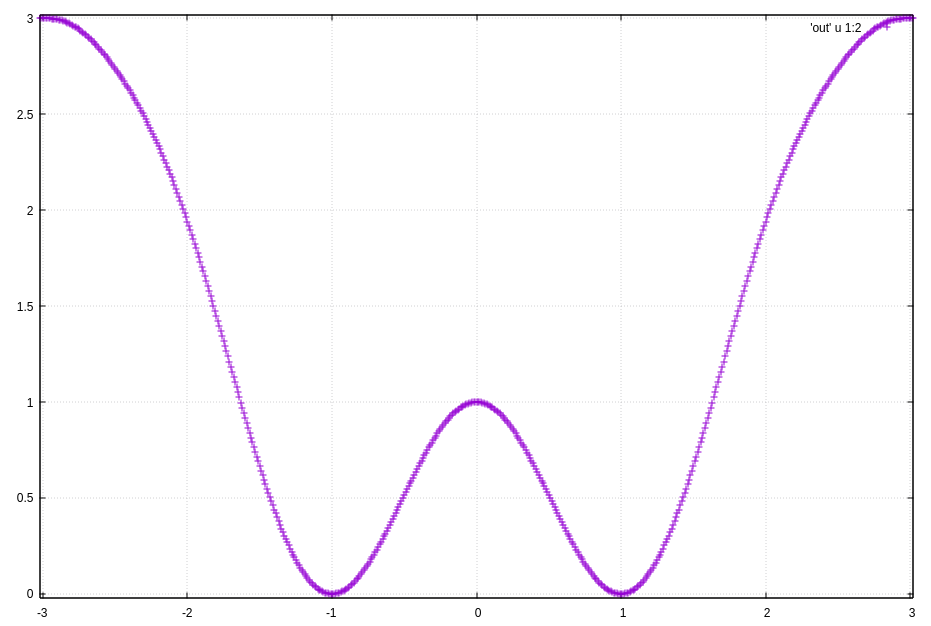
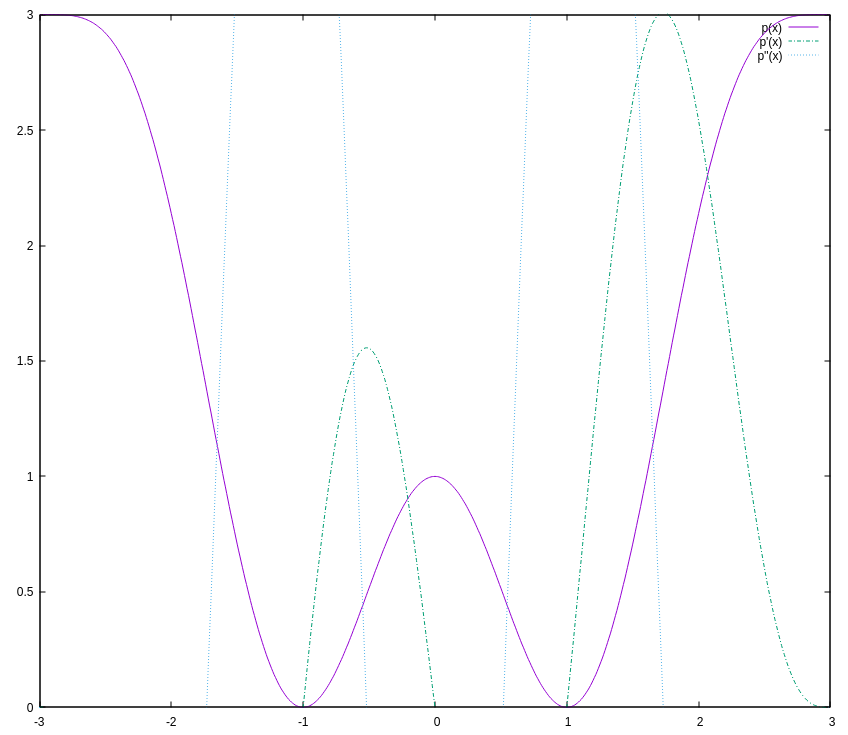
uuups there was an error in the 2nd derivative
added plot of 1st and 2nd derivatives

diff --git a/src/main.rs b/src/main.rs
@@ -18,8 +18,8 @@ fn big_poly_linear_system_rows(deriv2_x: Vec<f64> ) -> Vec< Vec<f64> > {
         two_pow3 *= 8.0;
         coeff[1].push( two_pow3);
         for j in 0..deriv2_x.len() {
-            let a = x2m1[j]*(ifloat-1.0)*deriv2_x[j];
-            x2m1[j]*=(deriv2_x[j]*deriv2_x[j]-1.0);
+            let a = x2m1[j]*(ifloat-1.0)*2.0*deriv2_x[j]*deriv2_x[j];
+            x2m1[j]*=deriv2_x[j]*deriv2_x[j]-1.0;
             let b = x2m1[j];
             coeff[3+j].push(2.0*ifloat*(a+b));
         }
@@ -28,16 +28,22 @@ fn big_poly_linear_system_rows(deriv2_x: Vec<f64> ) -> Vec< Vec<f64> > {
 
 }
 
-fn big_poly_calc(x : f64, param : &DVector<f64> ) -> f64 {
+fn big_poly_calc(x : f64, param : &DVector<f64> ) -> (f64,f64,f64) {
 
     let mut x2 = x*x-1.0;
+    let mut x2p=1.0;
     let mut y = 0.0;
-    x2*=x2;
+    let mut y1 = 0.0;
+    let mut y2 = 0.0;
     for i in 0..param.len(){
-        y+=param[i]*x2;
+        let i_s = (i+2) as f64;
+        y2+=2.0*i_s*param[i]*((i_s-1.0)*2.0*x*x*x2p+x2);
+        y1+=i_s*2.0*x*param[i]*x2;
+        x2p=x2;
         x2*=x*x-1.0;
+        y+=param[i]*x2;
     }
-    y
+    (y,y1,y2)
 }
 
 
@@ -89,7 +95,7 @@ fn main() {
     b[1]=h1;
     b[2]=0.0;
     for i in 0..nd2{
-        b[2+i]=p2y[i];
+        b[3+i]=p2y[i];
     }
 
     println!("{}",mat);
@@ -101,7 +107,7 @@ fn main() {
 
     for i in -350..351 {
         let x : f64 = i as f64 / 100.0 ;
-        let px3 = big_poly_calc(x,&xb);
-        println!("{x} {px3}");
+        let (y,y1,y2) = big_poly_calc(x,&xb);
+        println!("{x} {y} {y1} {y2}");
     }
 }

diff --git a/README.md b/README.md
@@ -18,45 +18,65 @@ p(x) = a_2 (x^2-1)^2 + a_3 (x^2-1)^3 + ...
 ```
 cargo run <<< '1
 3
-2
-2.19
-0
+5
 3
 0
+4.55
+0.0
+4.3
+0
+5.02
+9
+7.1
+90
 ' > out
 ```
 
 beginning of the output:
 
 ```
-  ┌                                                                                           ┐
-  │                 1                -1                 1                -1                 1 │
-  │                64               512              4096             32768            262144 │
-  │                16               192              2048             20480            196608 │
-  │           23.9444      186.22375926 1195.035123715048 6868.591676247881 36745.90928649707 │
-  │                44               672              8704            102400           1130496 │
-  └                                                                                           ┘
+Input height at 0 and height at 3
+Input number of second derivative points 
+Input second derivative point positions and values
+
+  ┌                                                                                                                                                         ┐
+  │                  1                 -1                  1                 -1                  1                 -1                  1                 -1 │
+  │                 64                512               4096              32768             262144            2097152           16777216          134217728 │
+  │                 16                192               2048              20480             196608            1835008           16777216          150994944 │
+  │                104               2112              31744             409600            4816896           53215232          562036736         5737807872 │
+  │ 244.42999999999995 12118.515187499996  446936.9547858748  14173991.19816581  409987664.4970896 11145105246.949165  289708521924.1584  7280443298965.557 │
+  │             217.88  9596.762999999999      314293.998744  8849753.826120896 227263418.13746658 5484623281.6499405 126566365335.34087   2823599850020.23 │
+  │  298.4047999999999 18150.590404799994  821810.3329461791 32003575.015241113 1136846989.6680145 37954550501.015434 1211723444448.7136  37400012122151.61 │
+  │             600.92  74426.28299999998  6872297.247575998  546066409.8533047  39588234404.03694  2697734075404.558 175809497538346.47  11077328274560740 │
+  └                                                                                                                                                         ┘
 
 
 
-  ┌   ┐
-  │ 1 │
-  │ 3 │
-  │ 0 │
-  │ 0 │
-  │ 0 │
-  └   ┘
+  ┌    ┐
+  │  1 │
+  │  3 │
+  │  0 │
+  │  0 │
+  │  0 │
+  │  0 │
+  │  9 │
+  │ 90 │
+  └    ┘
 
 
-values of coefficiente a_2 ... a_6
+values of coefficiente a_2 ... a_9
 
-  ┌                        ┐
-  │     0.6905920267814301 │
-  │   -0.26137231007916456 │
-  │    0.04425794189392759 │
-  │  -0.003658592241500982 │
-  │ 0.00011912900397681239 │
-  └                        ┘
+  ┌                              ┐
+  │           0.7078268432974726 │
+  │         -0.24875927787167154 │
+  │          0.03971775421403232 │
+  │       -0.0035106650653714266 │
+  │	  0.00018008935475770878 │
+  │    -0.0000052883292269523435 │
+  │    0.00000008137166246762725 │
+  │ -0.0000000004971001717684232 │
+  └                              ┘
+
 ```
 
 plot of the polynomial:
